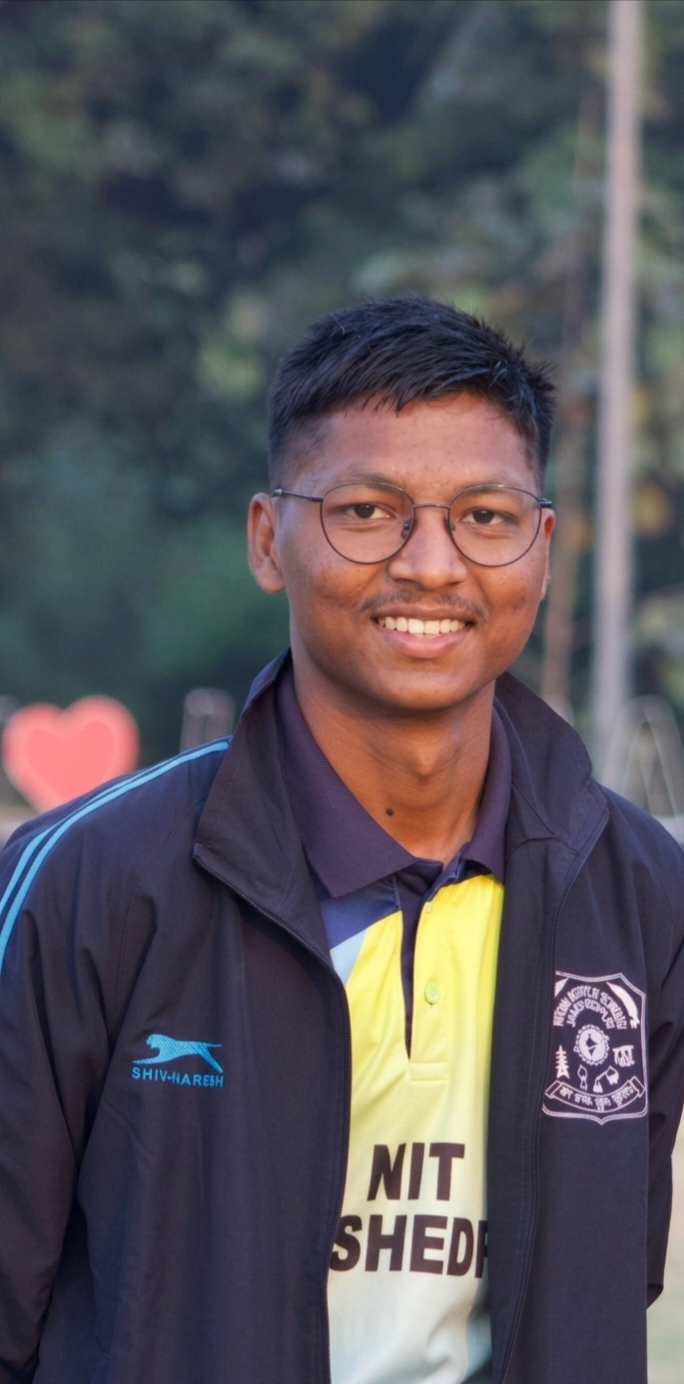
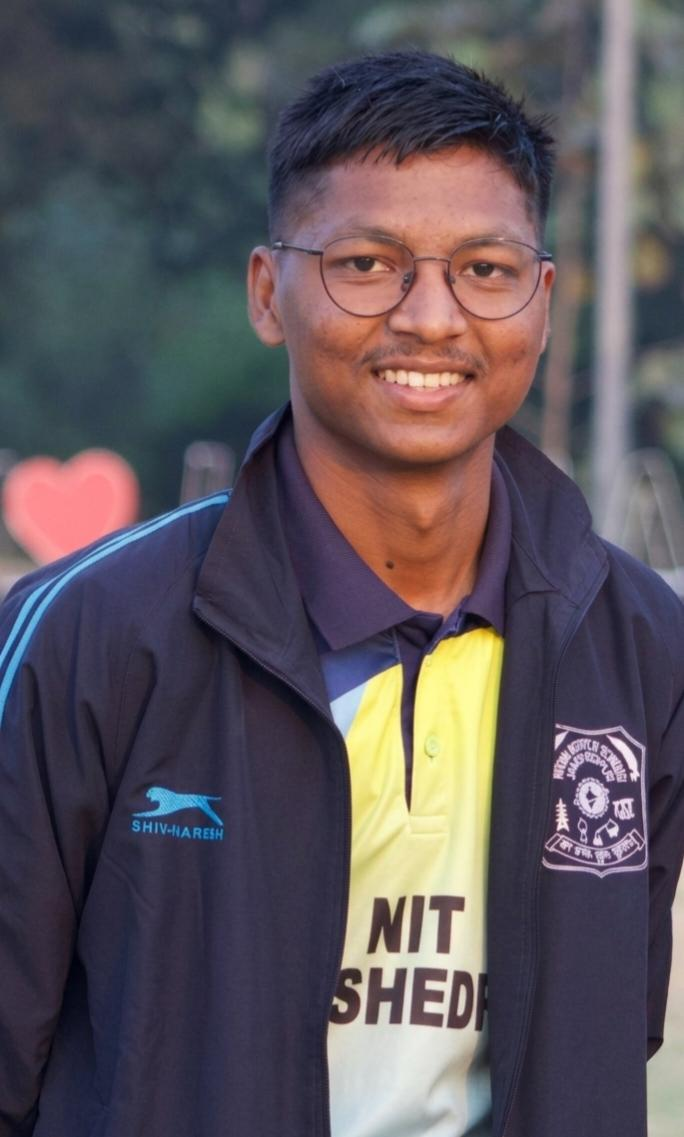
Update team images and manager data

diff --git a/frontend/src/components/Team/Team.jsx b/frontend/src/components/Team/Team.jsx
@@ -11,18 +11,6 @@ const supercoreTeamData = [
         image: 'prakharanand.jpg'
     },
     {
-        post: 'Joint Sports Secretary',
-        name: 'Mrinal Ayush Raj',
-        regNo: '2023UGME052',
-        image: 'mrinal.jpg'
-    },
-    {
-        post: 'Joint Sports Secretary',
-        name: 'Sunita Diggi',
-        regNo: '2023UGCE052',
-        image: 'sunita.jpg'
-    },
-    {
         post: 'General Secretary',
         name: 'Ankit Kumar Sharma',
         regNo: '2023UGMM011',
@@ -72,22 +60,10 @@ const supercoreTeamData = [
         image: 'deepakkumar.jpg'
     },
     {
-        post: 'Executive Head',
-        name: 'Nainish Singh',
-        regNo: '2022UGMM043',
-        image: 'nainish.jpg'
-    },
-    {
         post: 'Logistics Head',
         name: 'Shubham Kumar',
         regNo: '2023UGMM071',
         image: 'shubhamkumar.jpg'
-    },
-    {
-        post: 'Logistics Head',
-        name: 'Prabhat Gour',
-        regNo: '2022UGPI029',
-        image: 'prabhat_gour.jpg'
     },
     {
         post: 'Planning & Development Head',
@@ -103,12 +79,6 @@ const supercoreTeamData = [
     },
     {
         post: 'Public Relations Head',
-        name: 'Aryan Patole',
-        regNo: '2022UGCS011',
-        image: 'patole.jpg'
-    },
-    {
-        post: 'Public Relations Head',
         name: 'Himanshu Teotia',
         regNo: '2023UGME108',
         image: 'himanshuteotia.jpg'
@@ -120,22 +90,10 @@ const supercoreTeamData = [
         image: 'sarwarali.jpg'
     },
     {
-        post: 'Creative Head',
-        name: 'Neeraj Jha',
-        regNo: '2022UGPI044',
-        image: 'neeraj_jha.jpg'
-    },
-    {
         post: 'Medical Head',
         name: 'Ishan Raj',
         regNo: '2023UGCM010',
         image: 'ishanraj.jpg'
-    },
-    {
-        post: 'Medical Head',
-        name: 'Kriti Pandey',
-        regNo: '2022UGMM050',
-        image: 'kriti.jpg'
     },
     {
         post: 'Corporate Affairs Head',
@@ -161,18 +119,7 @@ const supercoreTeamData = [
         regNo: '2023UGCS082',
         image: 'lokeshmaheshwari.jpg'
     },
-    {
-        post: 'Content Head',
-        name: 'Priyanshu Jha',
-        regNo: '2022UGPI022',
-        image: 'priyanshu_jha.jpg'
-    },
-    {
-        post: 'Content Head',
-        name: 'Paripoorna',
-        regNo: '2022UGCS113',
-        image: 'paripoorna.jpg'
-    },
+
 ];
 
 function Team() {

diff --git a/frontend/src/data/managers.jsx b/frontend/src/data/managers.jsx
@@ -12,16 +12,6 @@ export const MANAGERS = [
     group: 'Team Lead'
   },
 
-  {
-    id: 2,
-    name: "Ritik Kumar",
-    role: "Team Lead",
-    regNo: "2022UGCS021",
-    phone: "",
-    photo: `${import.meta.env.BASE_URL}supercore/ritik.jpg`,
-    group: "Team Lead"
-  },
-
   // 3rd Year members
 
   {
